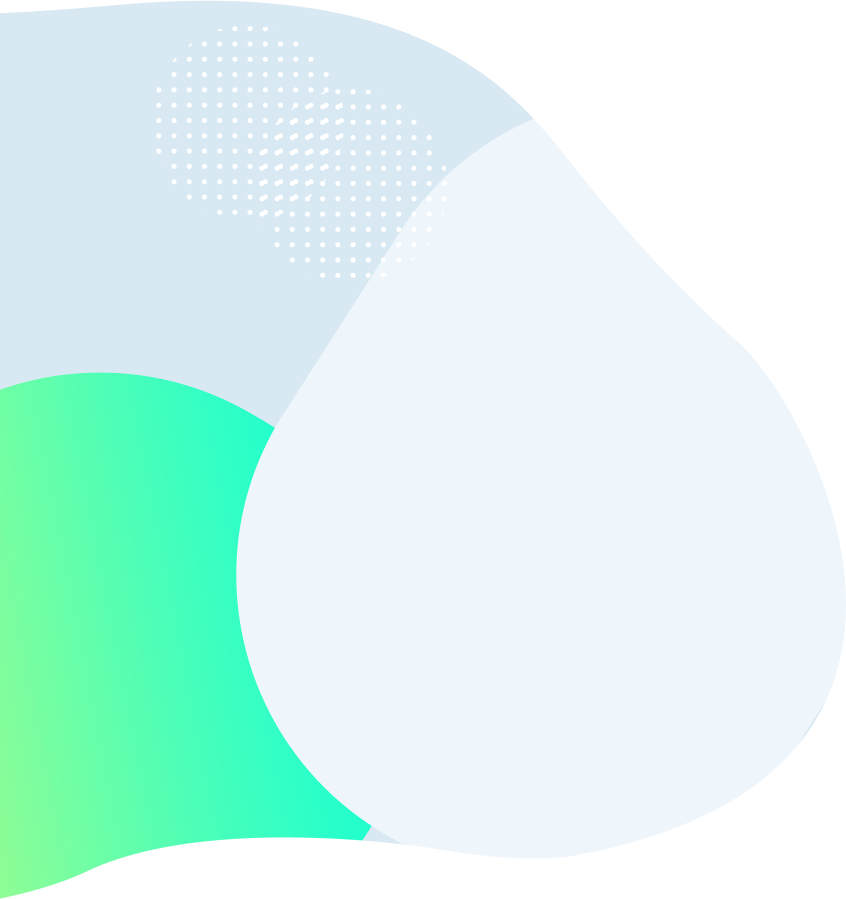
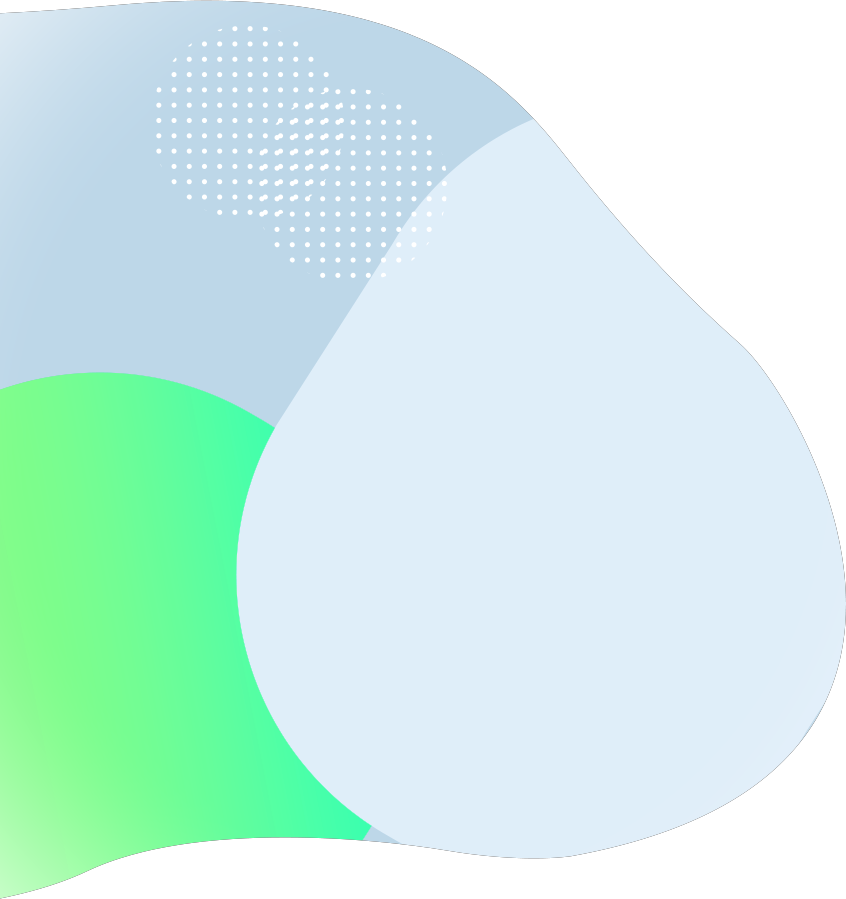
Home Background color adjustment

diff --git a/home/templates/home/home.html b/home/templates/home/home.html
@@ -7,7 +7,7 @@
                 <div class="row">
                     <div class="col-lg-12 text-center zindex-1">
                     <h1 class="mb-3">Chaitanya Khairnar<br></h1>
-                    <h4 class="mb-3">Business Analyst and Developer @ Sarjam Limited</h4>
+                    <h4 class="mb-3">I work at the confluence of curiosity, reasoning and imagination,<br> guiding the processes that uncover insights,<br> (re)frame situations and craft meaningful, future-oriented solutions.<br><br> Business Analyst and Developer @ Sarjam Limited</h4>
                     <p class="mb-4">Talks about #sql, #excel, #tableau, #powerBI, #python, #DataAnalytics, #AI, and #MachineLearning</p>
                     <a href="#{{ inpage_links.project }}" class="btn btn-secondary btn-lg page-scroll">explore</a>
                     <!-- banner image -->
